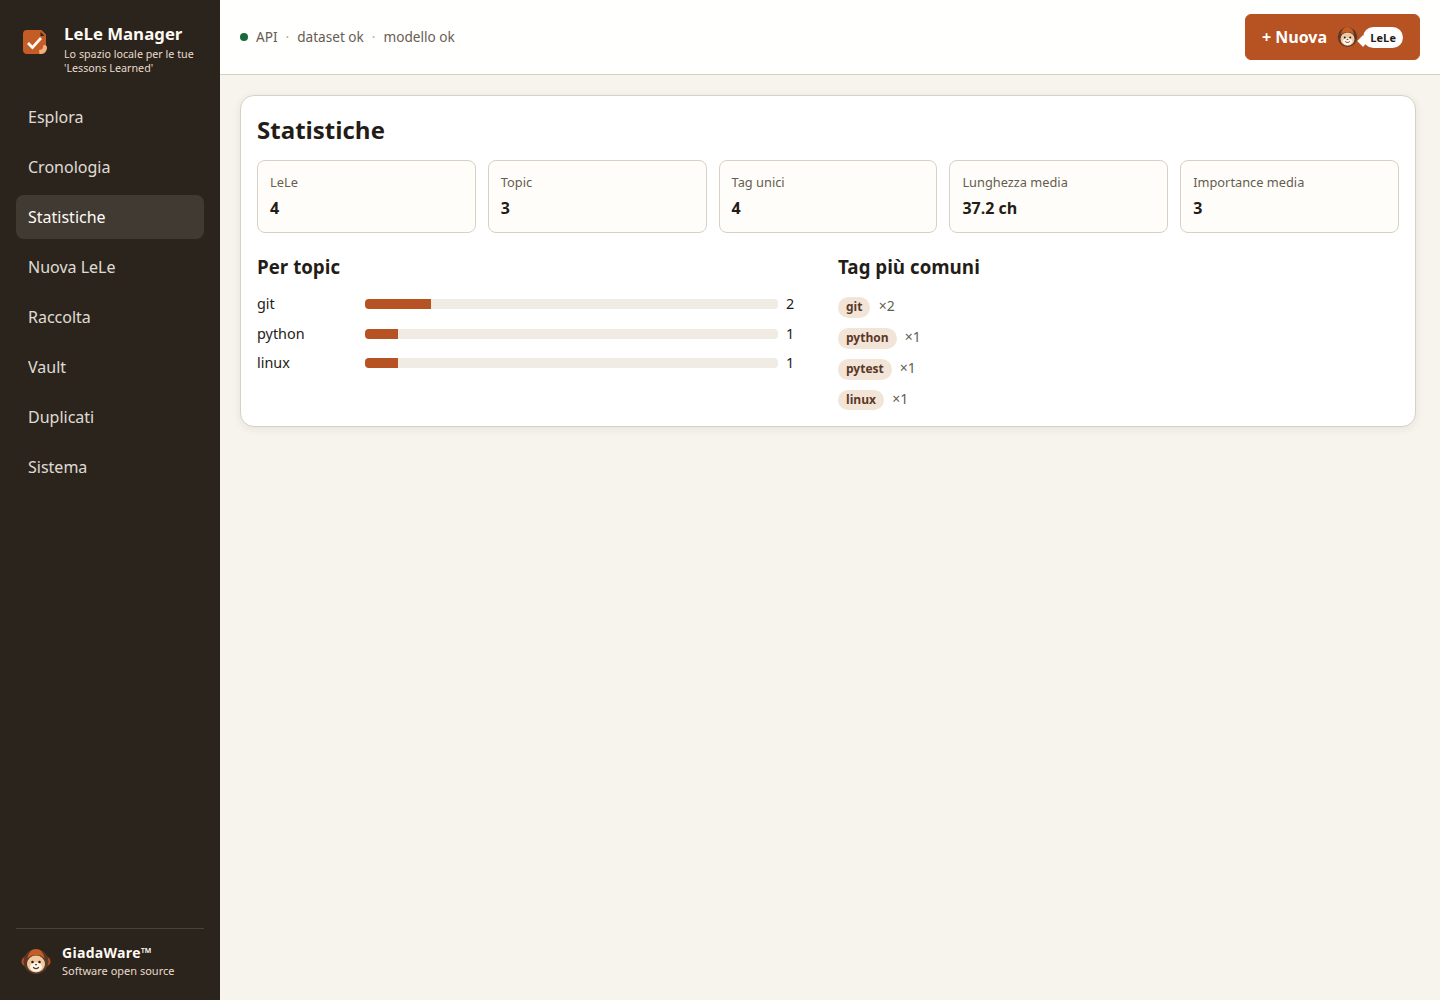
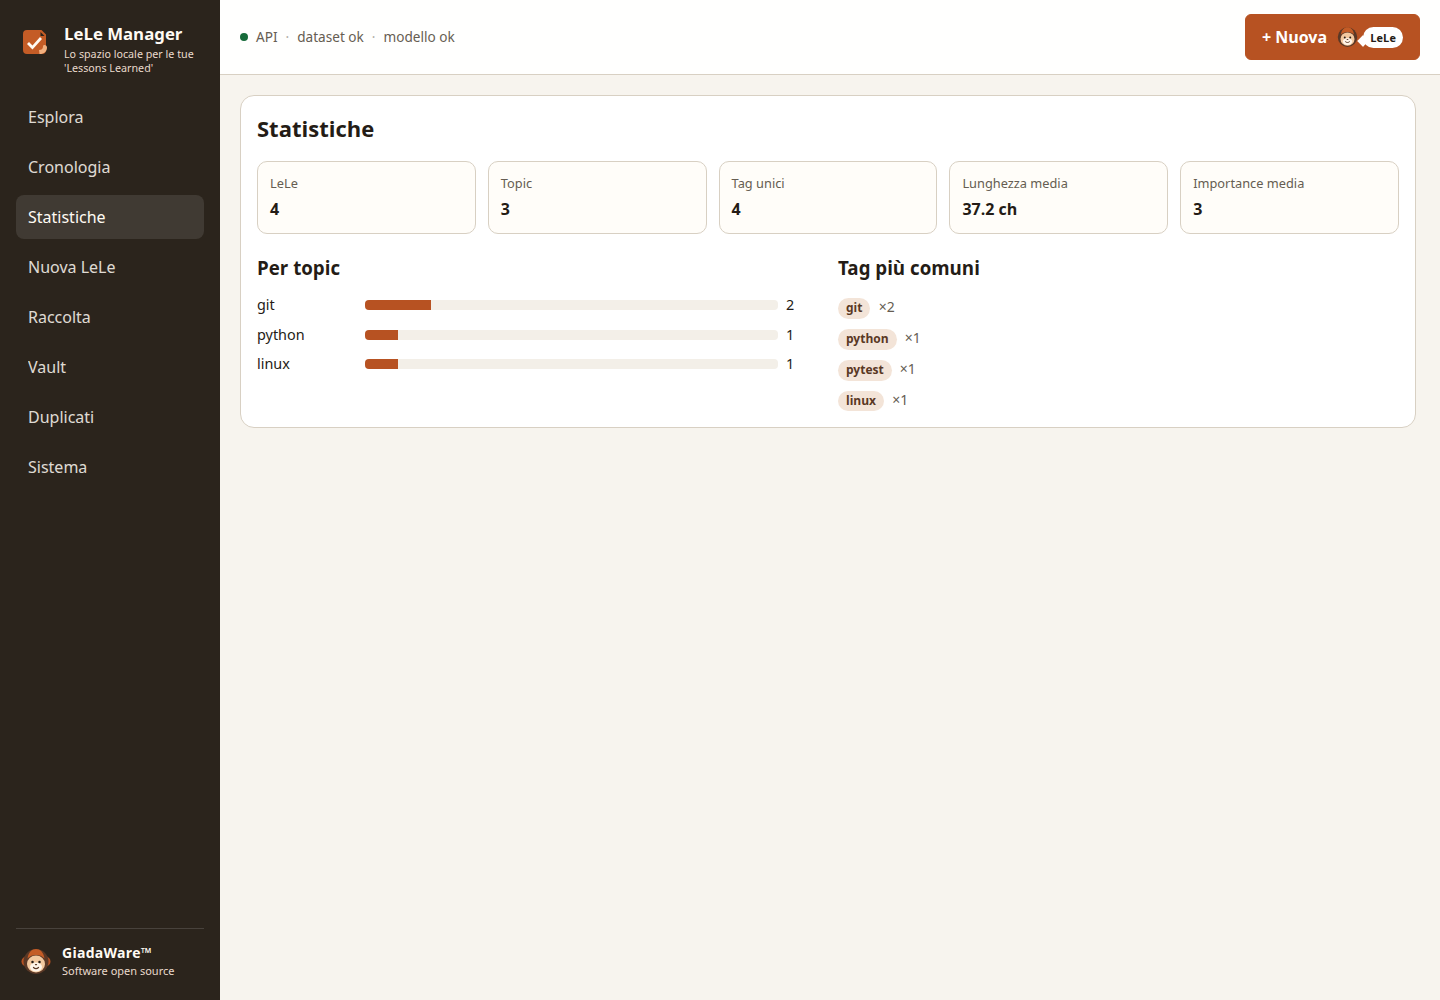
docs(gui): finalize Giada UI adoption

diff --git a/frontend/e2e/smoke.spec.ts b/frontend/e2e/smoke.spec.ts
@@ -31,9 +31,15 @@ test.describe('GUI smoke', () => {
 
   test('stats e timeline caricano senza errori', async ({ page }) => {
     await page.goto('/app/#/stats')
-    await expect(page.getByRole('heading', { name: 'Statistiche' })).toBeVisible()
-    await expect(page.locator('.stats .error')).toHaveCount(0, { timeout: 15_000 })
-    await expect(page.locator('.kpi').first()).toBeVisible()
+    const statsPanel = page.getByRole('region', {
+      name: 'Statistiche',
+      exact: true,
+    })
+    await expect(statsPanel).toBeVisible()
+    await expect(statsPanel.getByRole('alert')).toHaveCount(0, {
+      timeout: 15_000,
+    })
+    await expect(statsPanel.locator('.kpi').first()).toBeVisible()
 
     await page.getByRole('link', { name: 'Cronologia' }).click()
     await expect(page.getByRole('heading', { name: 'Cronologia' })).toBeVisible()
@@ -51,7 +57,15 @@ test.describe('GUI smoke', () => {
     await expect(page.locator('.ops .error')).toHaveCount(0, { timeout: 15_000 })
 
     await page.getByRole('link', { name: 'Vault' }).click()
-    await expect(page.getByRole('heading', { name: 'Vault' })).toBeVisible()
-    await expect(page.locator('section.card > .error')).toHaveCount(0, { timeout: 15_000 })
+
+    const vaultPanel = page.getByRole('region', {
+      name: 'Vault',
+      exact: true,
+    })
+
+    await expect(vaultPanel).toBeVisible()
+    await expect(vaultPanel.getByRole('alert')).toHaveCount(0, {
+      timeout: 15_000,
+    })
   })
 })

diff --git a/frontend/e2e/docs-screenshots.spec.ts b/frontend/e2e/docs-screenshots.spec.ts
@@ -30,8 +30,10 @@ async function prepareDocumentationScreenshot(
     const vaultHeading = Array.from(
       document.querySelectorAll('h2'),
     ).find((heading) => heading.textContent?.trim() === 'Vault')
-    const vaultCard = vaultHeading?.closest('section.card')
-    const vaultPath = vaultCard?.querySelector(':scope > p.meta')
+    const vaultPanel = vaultHeading?.closest('.giu-panel')
+    const vaultPath = vaultPanel?.querySelector(
+      '.giu-panel__body > p.meta',
+    )
 
     if (vaultPath instanceof HTMLElement) {
       vaultPath.textContent = '/vault'

diff --git a/docs/it/brand-design-system.md b/docs/it/brand-design-system.md
@@ -42,7 +42,11 @@ Gli alias esistenti (`--bg`, `--surface`, `--border`, `--text`, `--muted`, `--ac
 
 ## Componenti e feedback
 
-Usare `.btn` con `btn-primary`, `btn-secondary`, `btn-ghost` o `btn-destructive`; tutti hanno comportamento hover, active, focus-visible, disabled e busy. Input, select e textarea nativi condividono stati border, hover e focus; lo stile invalid è esplicito tramite `aria-invalid="true"` o `.is-invalid`, così i controlli required non ancora usati non sembrano errati. `.card`/`.panel`, `.tag`/`.badge`, `.status`, `.empty-state` e le classi feedback (`feedback-success`, `feedback-warning`, `feedback-info`, `feedback-error`) sono primitive riusabili. Le etichette runtime esistenti restano in italiano; questo sistema non introduce i18n runtime.
+Giada UI è l’autorità riusabile per pulsanti, pannelli, superfici, presentazione dei campi, gruppi di azioni e feedback di stato generici. I consumer usano gli entry point pubblici documentati e gli hook di tema `--giu-*`, senza copiare gli internals dei componenti.
+
+Input, select e textarea nativi restano responsabilità del prodotto finché non esiste un contratto Giada UI corrispondente; colori, bordi, focus e stato invalid esplicito usano i token semantici di LeLe Manager. Le etichette runtime esistenti restano in italiano; la localizzazione runtime inglese/italiano viene realizzata separatamente dalla #154.
+
+I selettori legacy come `.btn`, `.card`, `.actions`, `.status`, `.empty-state` e le classi feedback restano codice temporaneo di compatibilità soltanto per superfici di dominio complesse o non ancora migrate, in particolare Cronologia, Sistema, TritaLeLe, la CTA di creazione della shell e le card o gli alberi di dominio. Non costituiscono un secondo design system riusabile e non devono essere usati per nuova presentazione generica.
 
 Usare una parola o un messaggio di stato conciso accanto a ogni colore di stato. I controlli busy devono mantenere visibile lo scopo e usare un'etichetta di progresso come “Saving…”. Le azioni distruttive richiedono il trattamento distruttivo e una superficie di conferma esistente quando il flusso la offre; questa issue non aggiunge nuovi dialog.
 
@@ -95,6 +99,12 @@ Il frontend consuma l’artefatto immutabile vendorizzato
 `giadaware-ui-components-0.0.0.tgz`, generato dal commit Giada UI
 `b088653cba3c940ff6b4baf3b396a109cb04e8b7`, con SHA-256
[1 lines of base64/hex data omitted]
+
+L’adozione diretta copre Esplora, Statistiche, Vault, Dettaglio, Editor e la
+superficie generica di controllo e feedback dei Duplicati. Le card delle LeLe,
+le righe di similarità, i record di confronto dei duplicati, l’albero del Vault
+e l’orchestrazione dei workflow restano locali perché i relativi contratti
+appartengono a LeLe Manager e non a Giada UI.
 
 La dipendenza usa un riferimento locale `file:` e non richiede registry né
 accesso di rete a runtime. Colori e spaziature del prodotto sono collegati

diff --git a/docs/brand-design-system.md b/docs/brand-design-system.md
@@ -50,7 +50,11 @@ Existing aliases (`--bg`, `--surface`, `--border`, `--text`, `--muted`, `--accen
 
 ## Components and feedback
 
-Use `.btn` with `btn-primary`, `btn-secondary`, `btn-ghost`, or `btn-destructive`; all have hover, active, focus-visible, disabled, and busy behavior. Native inputs, selects, and textareas share border, hover, and focus states; invalid styling is opt-in through `aria-invalid="true"` or `.is-invalid`, so untouched required controls do not appear erroneous. `.card`/`.panel`, `.tag`/`.badge`, `.status`, `.empty-state`, and feedback classes (`feedback-success`, `feedback-warning`, `feedback-info`, `feedback-error`) are reusable primitives. Existing runtime labels remain Italian; this system does not add runtime internationalization.
+Giada UI is the reusable authority for generic buttons, panels, surfaces, field presentation, action groups, and status feedback. Consumers use its documented public entry points and `--giu-*` theme hooks rather than copying component internals.
+
+Native inputs, selects, and textareas remain product-owned until a matching Giada UI input contract exists; their colors, borders, focus, and opt-in invalid state use LeLe Manager semantic tokens. Existing runtime labels remain Italian; runtime English/Italian localization is delivered separately by #154.
+
+Legacy selectors such as `.btn`, `.card`, `.actions`, `.status`, `.empty-state`, and the feedback classes remain temporary compatibility code only for domain-heavy or not-yet-migrated surfaces, notably Timeline, System, TritaLeLe, the shell creation CTA, and domain cards or trees. They are not a second reusable design system and must not be used for new generic presentation.
 
 Use a concise status word or message beside every status color. Busy controls must keep their purpose visible and use a progress label such as “Saving…”. Destructive actions need the destructive treatment and an existing confirmation surface where the flow already provides one; this issue does not add new dialogs.
 
@@ -102,6 +106,12 @@ The frontend consumes the immutable vendored artifact
 `giadaware-ui-components-0.0.0.tgz`, generated from Giada UI commit
 `b088653cba3c940ff6b4baf3b396a109cb04e8b7`, with SHA-256
[1 lines of base64/hex data omitted]
+
+Direct adoption covers Browse, Statistics, Vault, Detail, Editor, and the
+generic control and feedback surface of Duplicates. Domain-specific lesson
+cards, similarity rows, duplicate-comparison records, the Vault tree, and
+workflow orchestration remain local because their contracts belong to
+LeLe Manager rather than Giada UI.
 
 The dependency uses a local `file:` reference and requires no registry or
 runtime network access. Product colors and spacing are mapped through documented
